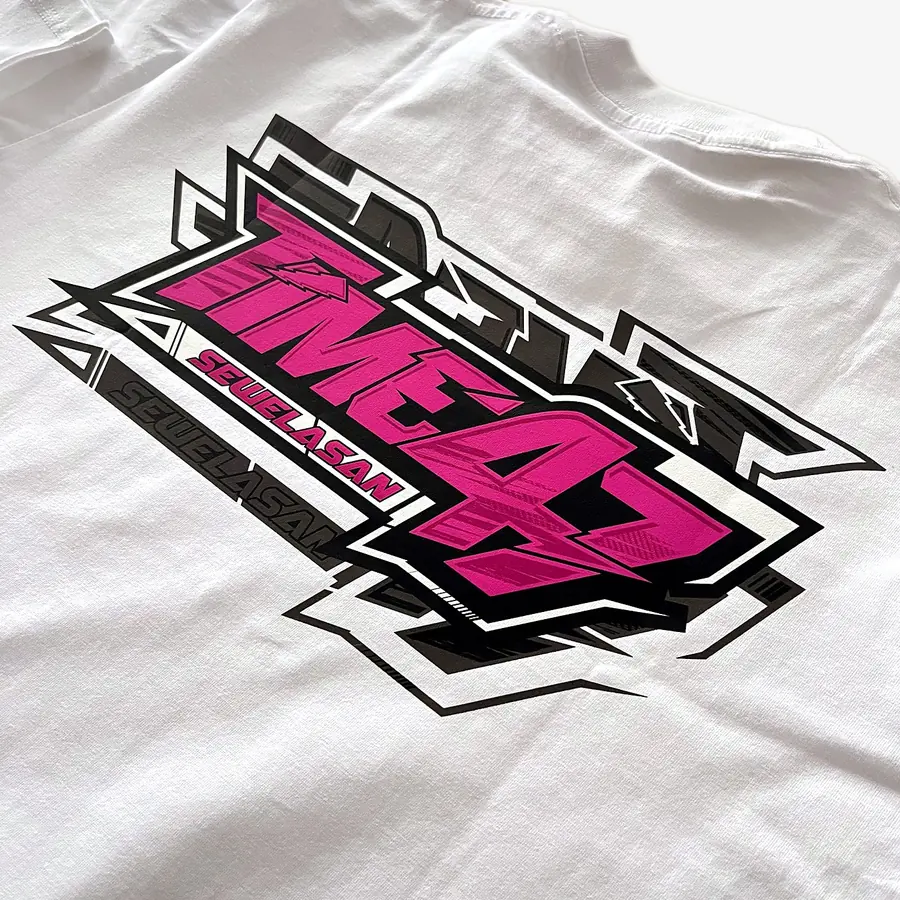
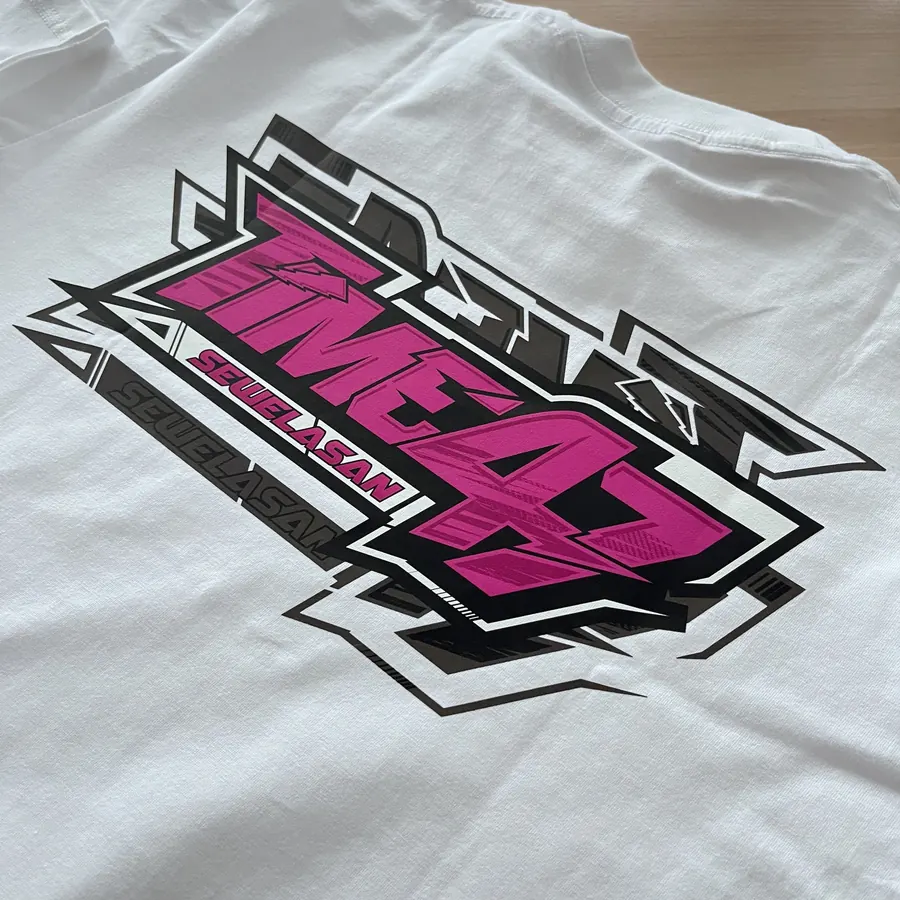
Foto TIME47 pakai foto asli tanpa edit (permintaan Huda)
Claude-Session: https://claude.ai/code/session_01J2nELHq3A3Pmoagc6FxLva

diff --git a/public/hasil-sablon.html b/public/hasil-sablon.html
@@ -62,7 +62,7 @@
     <div class="wrap">
             <h1 class="hs-title" style="font-family:var(--display);font-weight:800;font-size:clamp(38px,6vw,64px);line-height:1.02;margin-top:8px">Hasil produksi asli Willo.</h1>
       <p class="hs-lead">Foto dan video di bawah ini direkam di workshop kami di Ngawi dan diunggah di Instagram <a href="https://www.instagram.com/willo.apparel" target="_blank" rel="noopener">@willo.apparel</a>. Lihat hasilnya dulu, lalu ceritakan kebutuhan kaosmu lewat WhatsApp.</p>
-      <!-- FOTO SABLON DTF (PGRI Kedunggalar, TIME47 Sewelasan). Foto kiriman Huda, diedit (warna, cahaya, latar meja dibersihkan). -->
+      <!-- FOTO SABLON DTF (PGRI Kedunggalar, TIME47 Sewelasan). Foto TIME47 = foto asli tanpa edit (permintaan Huda); foto PGRI diedit ringan. -->
       <div class="gallery-head" id="foto-time47"><h2 style="font-family:var(--display);font-weight:800;font-size:30px;line-height:1.1;margin-top:6px">Sablon DTF untuk komunitas dan instansi.</h2></div>
       <div class="gallery gallery-kotak">
         <figure class="shot">

diff --git a/public/index.html b/public/index.html
@@ -294,7 +294,7 @@
           </div>
         </article>
       </div>
-      <!-- FOTO SABLON DTF (PGRI Kedunggalar, TIME47 Sewelasan). Foto kiriman Huda, diedit (warna, cahaya, latar meja dibersihkan). -->
+      <!-- FOTO SABLON DTF (PGRI Kedunggalar, TIME47 Sewelasan). Foto TIME47 = foto asli tanpa edit (permintaan Huda); foto PGRI diedit ringan. -->
       <div class="gallery-head" id="foto-time47"><h3>Sablon DTF untuk komunitas dan instansi.</h3></div>
       <div class="gallery gallery-kotak">
         <figure class="shot">
